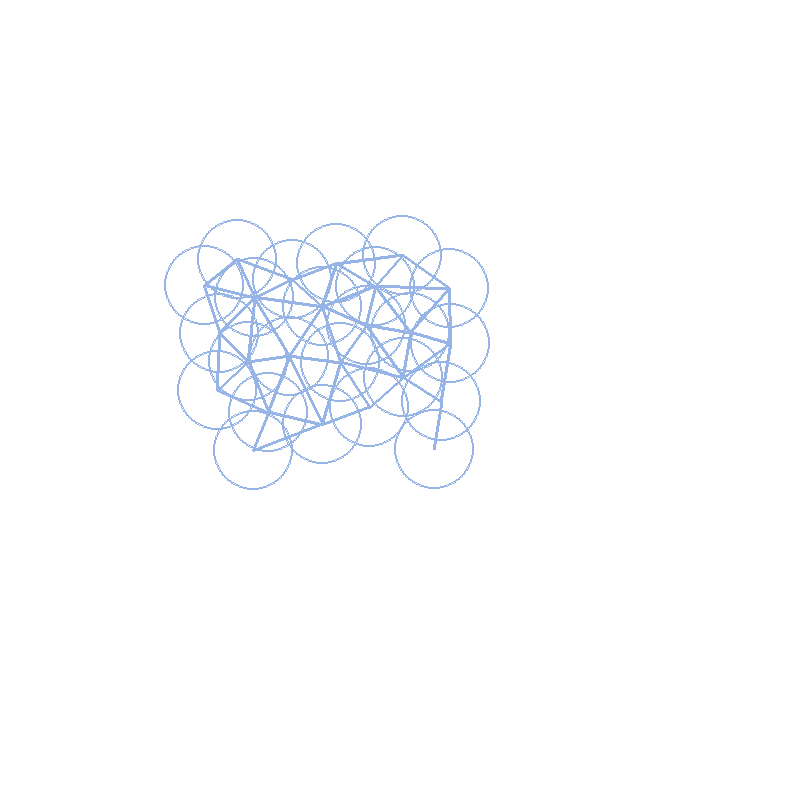
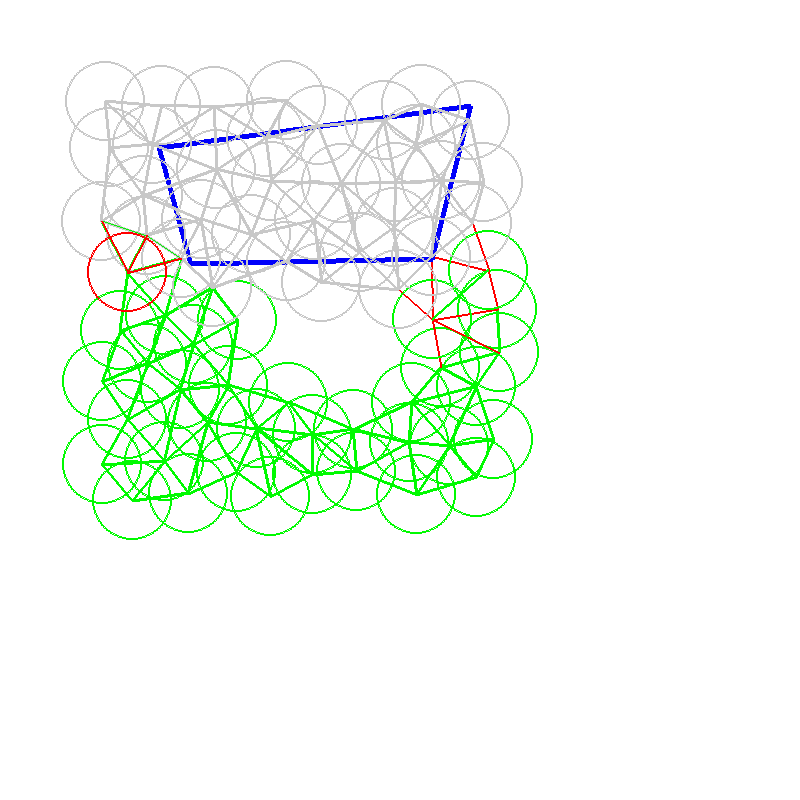
Heuristic guided growth implemented.

Changed region(s): [[0.0938, 0.0938, 0.6562, 0.6562], [0.6562, 0.4062, 0.6875, 0.4375]]

diff --git a/topology/Contraction_test.py b/topology/Contraction_test.py
@@ -95,9 +95,9 @@ def main():
 	##################################################
 	######        Contruct components
 	contractor = Contraction(sphere_list, DISPLAYSURF);
-	#components = contractor.contract(triangle_set, edge_tri_dict, sphere_tri_dict);
+	components = contractor.contract(triangle_set, edge_tri_dict, sphere_tri_dict);
 
-	#print "Got {0} component(s)".format(len(components))
+	print "Got {0} component(s)".format(len(components))
 	'''
 	i = 1;
 	for comp in components:
@@ -111,16 +111,16 @@ def main():
 	'''
 	##################################################
 	######        Contruct Path
-	path1 = [ (214, 261), (458, 257) ]
-	path2 = [ (214, 261), (345, 290), (458, 257) ]
-	path3 = [ (214, 261), (271, 431), (404, 404), (458, 257) ]
+	path1 = [ (159, 147), (470, 106) ]
+	path2 = [ (159, 147), (190, 263), (432, 259), (470, 106) ]
+	path3 = [ (159, 147), (153, 450), (457, 428), (470, 106) ]
 
 	untouchable1 = get_path_nodes(path1, sphere_list)
 	untouchable2 = get_path_nodes(path2, sphere_list)
 	untouchable3 = get_path_nodes(path3, sphere_list)
 
-	#draw_path(DISPLAYSURF, (0,0,250), path1);
-	#draw_path(DISPLAYSURF, (0,0,250), path2);
+	draw_path(DISPLAYSURF, (0,0,250), path1);
+	draw_path(DISPLAYSURF, (0,0,250), path2);
 	#draw_path(DISPLAYSURF, (0,0,250), path3);
 	#draw_circles(DISPLAYSURF, (250, 150, 150), untouchable1);
 	#draw_circles(DISPLAYSURF, (150, 250, 150), untouchable2);
@@ -151,36 +151,20 @@ def main():
 	pygame.image.save(DISPLAYSURF, "homotopy.PNG")
 	return;
 	'''
-	'''
-	union1 = Component(untouchable1[0]);	untouchable1.remove(untouchable1[0]);
-	union2 = Component(untouchable3[0]);	untouchable3.remove(untouchable3[0]);
-
-	while len(untouchable1) != 0:
-		for sphere in untouchable1:
-			if union1.intersects(sphere) and union1.add_sphere_betti(sphere, 0, edge_tri_dict, sphere_tri_dict, DISPLAYSURF):
-				pygame.draw.circle( DISPLAYSURF, (0,150, 0), ( int(sphere.center[0]), int(sphere.center[1]) ), int(sphere.radius), 1 )
-				untouchable1.remove(sphere)
-				time.sleep(0.5)
-
-	while len(untouchable3) != 0:
-		for sphere in untouchable3:
-			if union2.intersects(sphere) and union2.add_sphere_betti(sphere, 0, edge_tri_dict, sphere_tri_dict, DISPLAYSURF):
-				pygame.draw.circle( DISPLAYSURF, (0,150, 0), ( int(sphere.center[0]), int(sphere.center[1]) ), int(sphere.radius), 1 )
-				untouchable3.remove(sphere)
-				time.sleep(0.5)
-	'''
 	union1 = Component(); union1.construct( untouchable1, edge_tri_dict, sphere_tri_dict );
-	union2 = Component(); union2.construct( untouchable3, edge_tri_dict, sphere_tri_dict );
+	union2 = Component(); union2.construct( untouchable2, edge_tri_dict, sphere_tri_dict );
+	union3 = Component(); union3.construct( untouchable3, edge_tri_dict, sphere_tri_dict );
 	#union2.render(DISPLAYSURF, ( 200, 150, 150 )); pygame.display.update();
 
-	print len(union2.get_spheres()), len(untouchable3)
-
 	csp = HomotopyCSP(spheres, contractor.graph, triangle_set, edge_tri_dict, sphere_tri_dict);
-	#csp.greedy( union1, union2, DISPLAYSURF );
+	result = csp.greedy( union1, union2, spheres, DISPLAYSURF );
+	'''
 	if csp.CSP(spheres, union1, union2, DISPLAYSURF):
 		print "Same homotopy"
 	else:
 		print "Different homotopy class"
+	'''
+	print result;
 	pygame.image.save(DISPLAYSURF, "homotopy.PNG")
 
 if __name__ == '__main__':

diff --git a/alphashape/Homotopy.py b/alphashape/Homotopy.py
@@ -41,7 +41,23 @@ class HomotopyCSP:
 		print "Union neighbor spheres: {0}".format( len(neighbors) );
 		return neighbors;
 
-	def greedy( self, union1, union2, surface = None ):
+	def greedy( self, union1, union2, all_spheres, surface = None ):
+		''' Greedily grow spheres for a set of balls two paths go through, 
+		such that the growth will not increase the 1st betti number.
+		'''
+
+		def center( union1, union2 ):
+			center = None;
+			for s in union1.spheres:
+				if center is None:
+					center = copy.copy( s.center );
+				else:
+					center += s.center;
+			for s in union2.spheres:
+				center += s.center;
+
+			center /= ( len(union1.spheres) + len(union2.spheres) );
+			return center;
 
 		def dist(sphere, union):
 			'''min_dist from a sphere to spheres on a union'''
@@ -52,7 +68,14 @@ class HomotopyCSP:
 					min_dist = dist;
 			return min_dist;
 
-		pdb.set_trace();
+		def heur_dist( sphere, union1, union2 ):
+			'''returns the heuristic of the sphere'''
+			return dist(sphere, union1) + dist(sphere, union2);
+
+		def heur_cent( sphere, center ):
+			'''returns the heuristic of the sphere'''
+			return (sphere.center - center).r();
+
 		union1.render( surface, (200,200,200) );	union2.render( surface, (200,000,200) );
 		pygame.display.update();
 		used_spheres = {};
@@ -64,25 +87,27 @@ class HomotopyCSP:
 		
 		union1cp = copy.copy( union1 );
 		union = union1cp.merge(union2, self.edge_tri_dict, self.sphere_tri_dict);
-		neighbors = self.neighbor_spheres(union1, used_spheres)
+		neighbors = self.neighbor_spheres(union, used_spheres)
 		heuristic = PriorityQueue();
 		
 
 		if len(neighbors) == 0:
 			pass;   #### Think about this
 		for neighbor in neighbors:
-			heuristic.push( neighbor, dist(neighbor, union1) + dist(neighbor, union2) );
+			if not used_spheres.has_key(neighbor) and all_spheres.has_key(neighbor):
+				heuristic.push( neighbor, heur_dist(neighbor, union1, union2) );
 
-		while not heuristic.isEmpty():
+		pdb.set_trace();
+		while not heuristic.isEmpty() and not len(union.spheres) == len(all_spheres.keys()):
 			choice = heuristic.pop()
-			print choice
+			
 			pygame.draw.circle( surface, (255,0,0), (int(choice.center[0]), int(choice.center[1])), int(choice.radius), 2 );
 			pygame.display.update()
 			time.sleep(1);
 			old_betti = union.betti_number(self.edge_tri_dict)
 			print "old betti number: {0}".format( old_betti )
 			good = union.add_sphere_betti(choice, old_betti, self.edge_tri_dict, self.sphere_tri_dict, surface);
-			if good == None:
+			if old_betti == 0 or good == None:
 				print "Same homotopy class";
 				return;
 			if good:
@@ -92,11 +117,8 @@ class HomotopyCSP:
 				temp = Component( choice );
 				new_neighbors = self.neighbor_spheres(temp, used_spheres)
 				for neighbor in new_neighbors:
-					heuristic.push( neighbor, dist(neighbor, union1) + dist(neighbor, union2) );
-					break;
-			else:
-
-				heuristic.push( choice, dist(choice, union1) + dist(choice, union1) );
+					if not used_spheres.has_key(neighbor) and all_spheres.has_key(neighbor):
+						heuristic.push( neighbor, heur_dist(neighbor, union1, union2) );
 			
 		betti = union.betti_number(self.edge_tri_dict);
 		print betti

diff --git a/sampling/experiments/random_sampling.py b/sampling/experiments/random_sampling.py
@@ -22,16 +22,16 @@ def inside(sphere, point):
 	@param point: (x,y)'''
 	if (sphere[0]-point[0])**2 + (sphere[1]-point[1])**2 < (sphere[2]*1)**2:
 		return True;
-	#if point[0] <= 400 and point[0] >= 300 and point[1] <= 400 and point[1] >= 300:
-	#	return True;
+	if point[0] <= 400 and point[0] >= 250 and point[1] <= 400 and point[1] >= 300:
+		return True;
 
 def sample_one(n, samples):
 	global width;
 	global height;
 	failed_times = 0;
 	while failed_times < n:
-		rand_x = random.randint(200, width-150);
-		rand_y = random.randint(250, height-150);
+		rand_x = random.randint(100, width-100);
+		rand_y = random.randint(100, height-100);
 		point = ( rand_x, rand_y );
 		r = 40;
 		good_sample = True;
